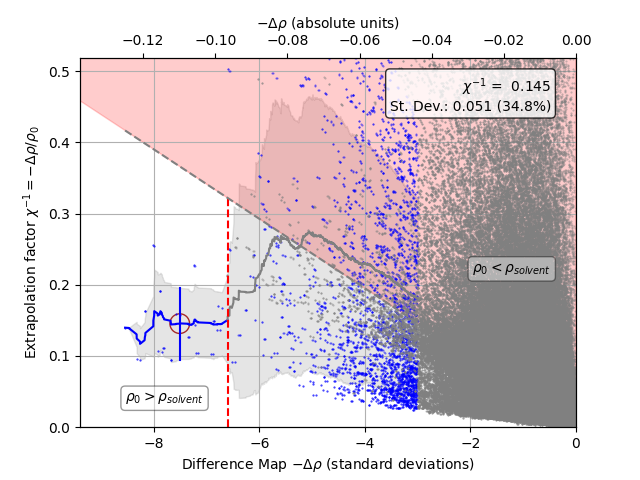
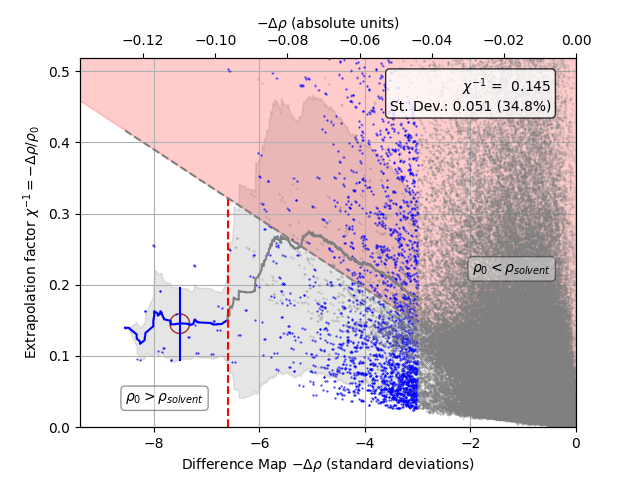
updating example basic

Changed region(s): [[0.5625, 0.125, 0.9062, 0.75], [0.6562, 0.75, 0.7188, 0.875], [0.5312, 0.5938, 0.5625, 0.625]]

diff --git a/examples/scripts/example_basic.py b/examples/scripts/example_basic.py
@@ -1,6 +1,10 @@
+import argparse
+
 from xtr_estimator.configuration import load_homepath
 from xtr_estimator.estimation import plot_extrapolation_estimate
 from xtr_estimator.main import execute_as_main
+from xtr_estimator.masking import make_inclusion_mask
+from xtr_estimator.xtr_maps import save_to_folder
 
 
 from xtr_estimator.configuration import (
@@ -10,7 +14,7 @@ from xtr_estimator.configuration import (
     Settings,
     MapProcessingSettings,
     PlotSettings,
-    MaskingSettings
+    MaskingSettings,
 )
 from xtr_estimator.processing import get_maps, prepare_maps
 
@@ -21,7 +25,7 @@ def apply_config_rsEGFP2() -> dict:
     # Initialize the Settings object
     # This automatically runs all validation and @computed_field logic
     config = Settings(
-        general = GeneralSettings(
+        general=GeneralSettings(
             name_machine="rsEGFP2",
             high_resolution_limit=1.6,
             comparison_type="triggered",
@@ -41,55 +45,50 @@ def apply_config_rsEGFP2() -> dict:
                 uncertainty_column="SIGF_on",
             ),
         ),
-        map_processing=MapProcessingSettings(
-                calculate_diffmap_before_f000=False
-        ),
-        masking=MaskingSettings.simple(
-        ),
-        plot= PlotSettings(
-            solvent_density = 0.3,
+        map_processing=MapProcessingSettings(calculate_diffmap_before_f000=False),
+        masking=MaskingSettings.simple(),
+        plot=PlotSettings(
+            solvent_density=0.3,
         ),
     )
-    # config.masking.dark_size_threshold= 0.1
-        # You can specify a preset here if needed:
-        # masking=MaskingSettings.advanced()
-
-
-    # Return as a dictionary for backwards compatibility with your existing pipeline
     return config
 
-from xtr_estimator.masking import make_inclusion_mask
-from xtr_estimator.xtr_maps import save_to_folder
 
 def simple():
-    # Load defaults + local yaml
     cfg = apply_config_rsEGFP2()
-    # Manual override in code
-    # cfg.general.name_human = "Modified_Experiment (Example)"
-    
     prediction_tuple = execute_as_main(cfg, save2file=True)
     return prediction_tuple
 
+
 def extrapolation():
     config = apply_config_rsEGFP2()
-    unscaled_dark, unscaled_triggered = get_maps(config)
-    diffmap, map_dark, _ = prepare_maps(unscaled_dark, unscaled_triggered, config)
-    inclusion_mask = make_inclusion_mask(diffmap, map_dark, config)
-    _, _, prediction_tuple = plot_extrapolation_estimate(
-        diffmap, map_dark, inclusion_mask, config, compact=False
-    )
 
-    parameters = {
-        "folder": config.general.output_folder,
-        "xtr_prefix": "extrapolated"
-        # "d": config.input_files.map_dark,
-    }
-    save_to_folder(diffmap, map_dark, 
-                   parameters,
-                   input_file_config=config.input_files,
-                   save_dict={"best_guess": 1/prediction_tuple[0]},
-                   )
+    # both options perform the same job
+    if False:
+        prediction_tuple = execute_as_main(cfg, save2file=True)
+    else:
+        unscaled_dark, unscaled_triggered = get_maps(config)
+        config.map_processing.diffmap_type = "it_tv"
+        diffmap, map_dark, _ = prepare_maps(unscaled_dark, unscaled_triggered, config)
+        inclusion_mask = make_inclusion_mask(diffmap, map_dark, config)
+        _, _, prediction_tuple = plot_extrapolation_estimate(
+            diffmap, map_dark, inclusion_mask, config, compact=False
+        )
 
+    parameters = {"folder": config.general.output_folder, "xtr_prefix": "extrapolated"}
+    question_text = "Do you want to extrapolate using the prediction? (y/n): "
+    extrapolate = input(question_text).lower().startswith("y")
+    if extrapolate:
+        print("Extrapolating.")
+        save_to_folder(
+            diffmap,
+            map_dark,
+            parameters,
+            input_file_config=config.input_files,
+            save_dict={"best_guess": 1 / prediction_tuple[0]},
+        )
+    else:
+        print("Extrapolation skipped.")
 
 
 if __name__ == "__main__":